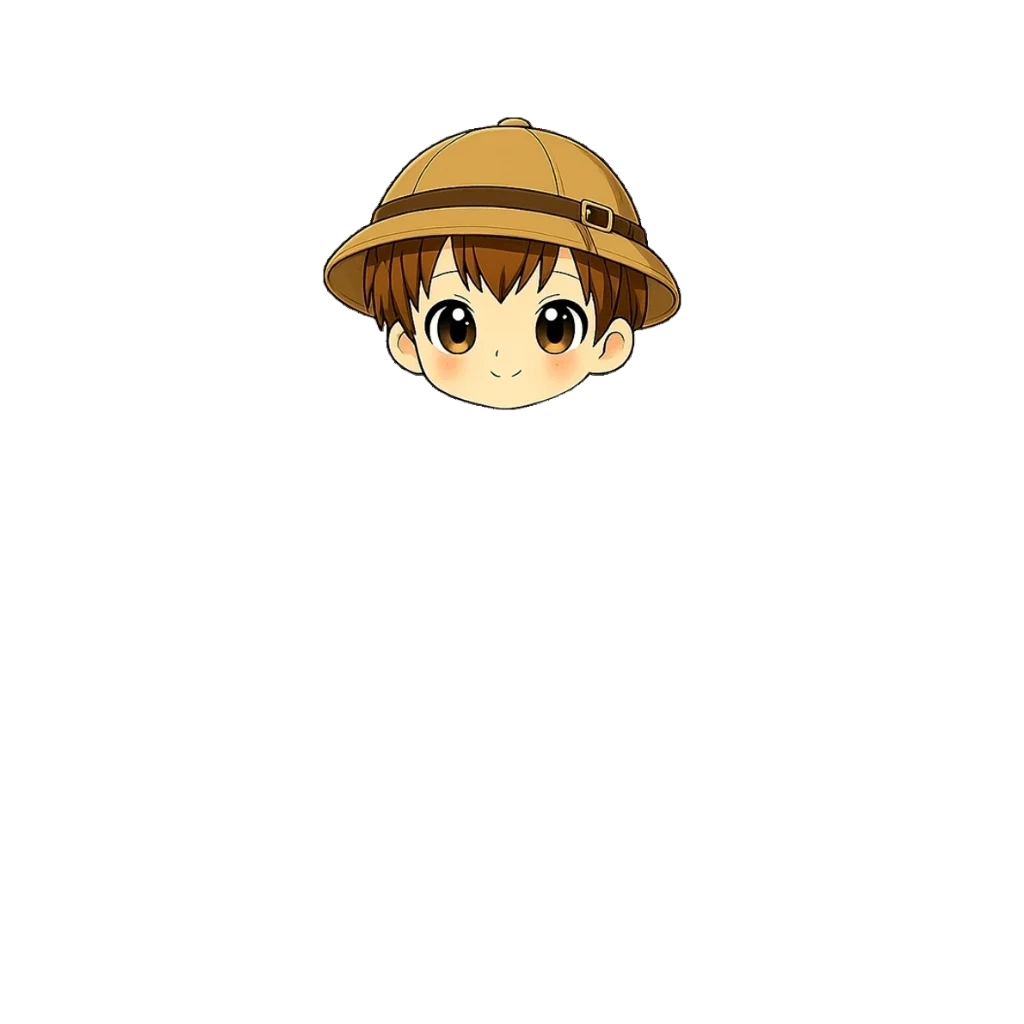
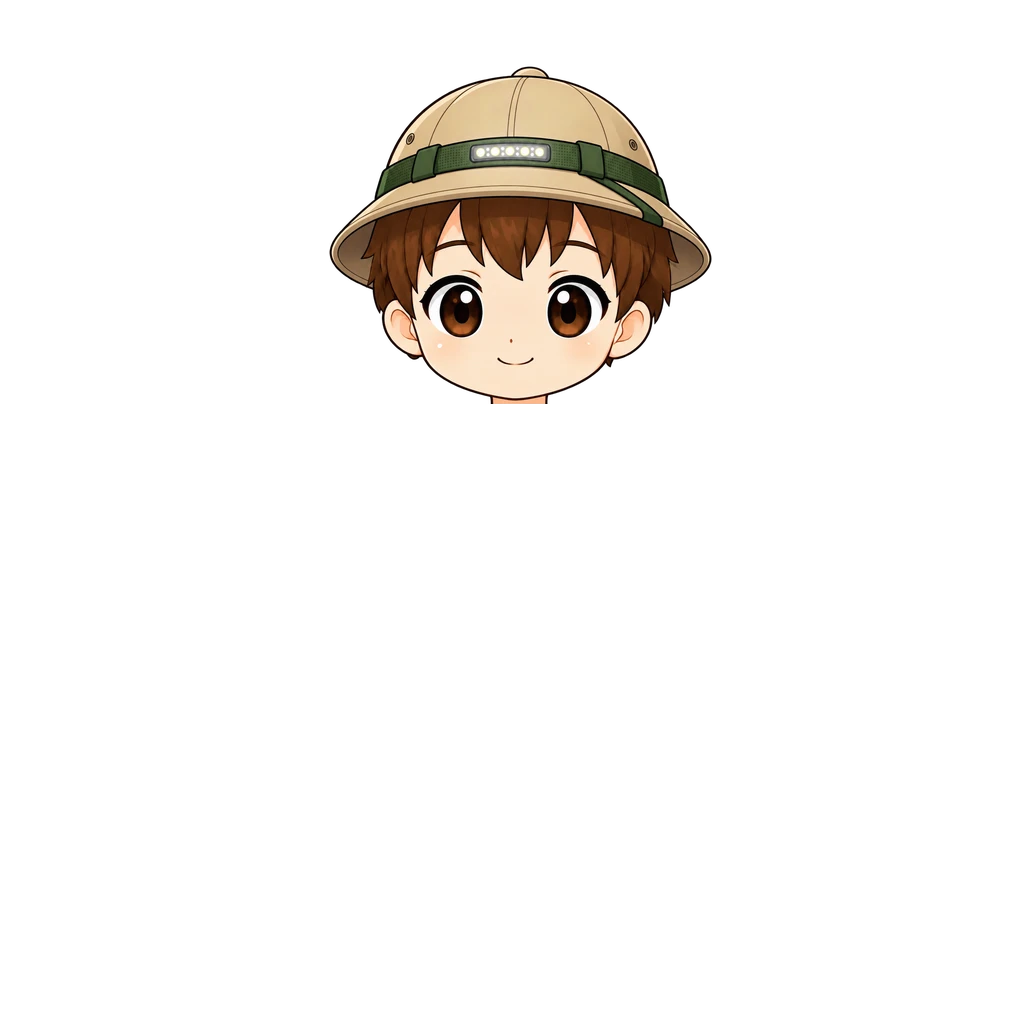
남아 사파리 모자 추가 (모자+얼굴, hidesHead) (#744)
* 해적 신발 크기·위치 재조정 (베이스 다리 비율에 맞춤)

- 해적 남아 원화와 비교해 베이스가 다리가 짧고 가늘어서, 신발 높이를 112로
  줄이고 윗선을 y827에 맞춤(발바닥 y939)
- 왼짝·오른짝을 따로 배치해 발별로 미세 조정할 수 있게 함
- 같은 파일명이라 경로에 ?v=2

Claude-Session: https://claude.ai/code/session_018maNuYqDfFyRSe9uKpZhPR

* 오늘의 발견을 수첩에 붙인 메모지 디자인으로 변경

- 크림색 종이 질감 + 연두 마스킹테이프, 테두리 없이 그림자·거친 가장자리로만 표현
- 수첩보다 살짝 좁게, '오늘의 발견'은 작게 · 발견 내용은 진한 갈색으로 크게
- 도감 버튼을 오른쪽 작은 알약 버튼(도감 N개 ›)으로
- '탐험일지' 머리말 아래 · 수첩 바로 위로 이동
- App.jsx에서 DiscoveryMemo 컴포넌트로 분리

Claude-Session: https://claude.ai/code/session_018maNuYqDfFyRSe9uKpZhPR

* 오늘의 발견 메모지: 글씨 줄이고 테이프를 왼쪽 위 모서리 대각선으로

- 발견 내용 16.5 → 14 (폰에서 짧은 힌트도 두 줄로 꺾이던 문제), 머리말·도감 버튼·아이콘도 한 단계씩
- 위쪽 가운데 테이프가 '탐험일지' 머리말 줄과 겹쳐 보여 왼쪽 위 모서리에 대각선으로

Claude-Session: https://claude.ai/code/session_018maNuYqDfFyRSe9uKpZhPR

* 오늘의 발견 메모지: 힌트 날의 발자국 아이콘 제거

발자국 자리만큼 힌트가 한 줄에 더 들어가게 함. 찾은 날의 발견 이모지는 유지.

Claude-Session: https://claude.ai/code/session_018maNuYqDfFyRSe9uKpZhPR

* 남아 아바타 기본 몸체 새 버전으로 교체

사용자 제공 원화(갈색 짧은 머리)로 body.webp 업데이트.
버전을 v8 → v9로 올려 기존 기기 캐시 무효화.
art-src/body-boy-src.webp에 원본 보관 (webp q92).

Claude-Session: https://claude.ai/code/session_018maNuYqDfFyRSe9uKpZhPR

* 남아 베이스 v9 탑재 바로잡기 (머리 겹침·비율 깨짐 수정)

직전 커밋은 원화(머리 포함 전신)를 1024×1024로 통째로 늘려 body.webp에 넣어
베이스 머리가 그 위에 또 그려지고 몸 비율도 깨졌다. v8과 같은 공식으로 다시 탑재:
- 알파 상자를 v8 자리(y89~942, 가로 중심 512)에 맞춤 — 실루엣 IoU 0.976이라 장비 재조정 불필요
- y405에서 가로로 잘라 head/body, 합본 default까지 3장 교체, 경로 ?v=9
- art-src: base-v9-boy-src.webp로 이름 정리, 규칙 6에 따라 base-v8-boy-src 삭제
[…]

Changed region(s): [[0.3125, 0.0625, 0.7188, 0.4062]]

diff --git a/src/data/avatarEquipment.js b/src/data/avatarEquipment.js
@@ -189,7 +189,7 @@ export const AVATAR_CATALOG = [
   { id: "bottom_shorts_green", slot: "bottom", label: "기본 반바지", emoji: "🩳", price: 0, rarity: "common", theme: "common", starter: true, img: "assets/avatar/bottom/starter-shorts.webp", imgGirl: "assets/avatar/bottom/starter-shorts-girl.webp", thumb: "assets/avatar/thumb/bottom_shorts_green.webp" },
 
   /* 머리띠 — 머리를 덮는 물건이 아니라 hidesHead 를 안 쓴다.
-     (얼굴째 덮던 남아 사파리 모자 그림은 v7 몸에 안 맞아 카탈로그에서 뺐다 — 파일은 남아 있다)
+     (얼굴째 덮는 남아 사파리 모자는 아래 hat_safari_boy — 2026-10-02 새 원화로 다시 넣었다)
      [2026-08-20] '베이스가 쓰고 있는 머리 그림'을 새로 받아 다시 탑재했다(?v=3).
      예전엔 머리띠만 오려 낸 그림을 눈으로 맞춰서 머리보다 크게 얹혀 있었다
      (탑재 상자 362~659 → 391~640, 머리 폭 안으로 들어옴). art-src/README 참고. */
@@ -203,6 +203,10 @@ export const AVATAR_CATALOG = [
      그래도 남는 얇은 머리 가닥은 열기 연산(침식→팽창)으로 잘라 냈다. */
   { id: "hat_picnic",     slot: "hat",   label: "딸기 밀짚모자", emoji: "👒", price:DECOR_PRICE.rare, rarity: "rare", theme: "picnic", forGender: "girl", img: "assets/avatar/hat/picnic-hat-girl.webp?v=3", thumb: "assets/avatar/thumb/hat_picnic.webp" },
   { id: "hat_pirate",     slot: "hat",   label: "해적 모자",   emoji: "🏴☠", price:DECOR_PRICE.epic, rarity: "epic", theme: "pirate", forGender: "girl", img: "assets/avatar/hat/pirate-hat-girl.webp?v=3", thumb: "assets/avatar/thumb/hat_pirate.webp" },
+  /* 남아 사파리 모자 [2026-10-02] — 모자+얼굴 한 장(사용자 원화)이라 hidesHead: 쓰면 머리카락 머리 장이 빠지고
+     민머리 위에 얹힌다(베이스 v10 구조). 얼굴(눈~입) 템플릿 매칭으로 맞춤(배율 0.4065 · 일치 0.970).
+     원화에 달린 목은 z50 이라 높은 깃(우주복·후드·도토리)을 덮어서 기본 머리 장처럼 y404 에서 잘랐다. */
+  { id: "hat_safari_boy", slot: "hat",   label: "사파리 모자", emoji: "🧢", price:DECOR_PRICE.rare, rarity: "rare", theme: "adventure", forGender: "boy", hidesHead: true, img: "assets/avatar/hat/safari-brown.webp?v=2", thumb: "assets/avatar/thumb/hat_safari_boy.webp" },
   /* 사파리 옷 — 원화가 블라우스+반바지 한 장이라 상의 슬롯 하나로 넣는다(사용자 확정).
      상의(35)가 하의(30) 위라 하의를 같이 껴도 이 그림이 덮는다. */
   /* [2026-08-20] 남아 원화가 들어와 남녀 공용이 됐다 — 그림이 성별로 갈리는 첫 아이템.

diff --git a/art-src/README.md b/art-src/README.md
@@ -341,7 +341,7 @@ getBoundingClientRect로 재서 정한다. 2026-08-05 점검에서 이 기준을
 | shoe-cream-L/R.webp | 크림 부츠 원화 한 짝씩 (현행, 고해상도 원본) | avatar/shoes/cream-boots(-girl).webp |
 | hat-explorer-v3.webp | 탐험 헬멧 원화 남아 v3 (현행, hidesHead) | avatar/hat/explorer-helmet.webp |
 | hat-explorer-helmet-girl.webp | 탐험 헬멧 원화 여아 (현행, imgGirl) | avatar/hat/explorer-helmet-girl.webp |
-| hat-safari-brown.webp | 사파리 모자 원화 남아 (현행, hidesHead — 여아는 사파리 머리띠로 교체) | avatar/hat/safari-brown.webp |
+| hat-safari-brown.webp | **사파리 모자 원화 남아 — 모자+얼굴 한 장 (사용자 원화 2026-10-02, 이전 판 교체)**. 941×1672 투명 배경. hat_safari_boy(hidesHead) — 베이스 v10 민머리 위에 얹힌다. 베이스 합본(default.webp) 얼굴에 눈~입(원화 y905~1115 · x215~735) 템플릿 매칭: 배율 0.4065 · 왼쪽 위 (328.6,-82.9) · 일치 0.970. 원화의 목이 z50 이라 높은 깃을 덮어 y404 아래를 잘랐다(목은 민머리 몸에 있음). 탑재 상자 (329,64)-(712,403) | avatar/hat/safari-brown.webp · thumb/hat_safari_boy.webp |
 | hat-aviator-cap.webp | 비행사 모자 원화 남아 (**겨울 시즌 보관** — season:"winter", 상점 미노출) | avatar/hat/aviator-cap.webp |
 | hat-aviator-cap-girl.webp | 비행사 모자 원화 여아 (**겨울 시즌 보관**) | avatar/hat/aviator-cap-girl.webp |
 | hat-blossom.webp | 꽃 헬멧 원화 남아 (현행, hidesHead) | avatar/hat/blossom-helmet.webp |
